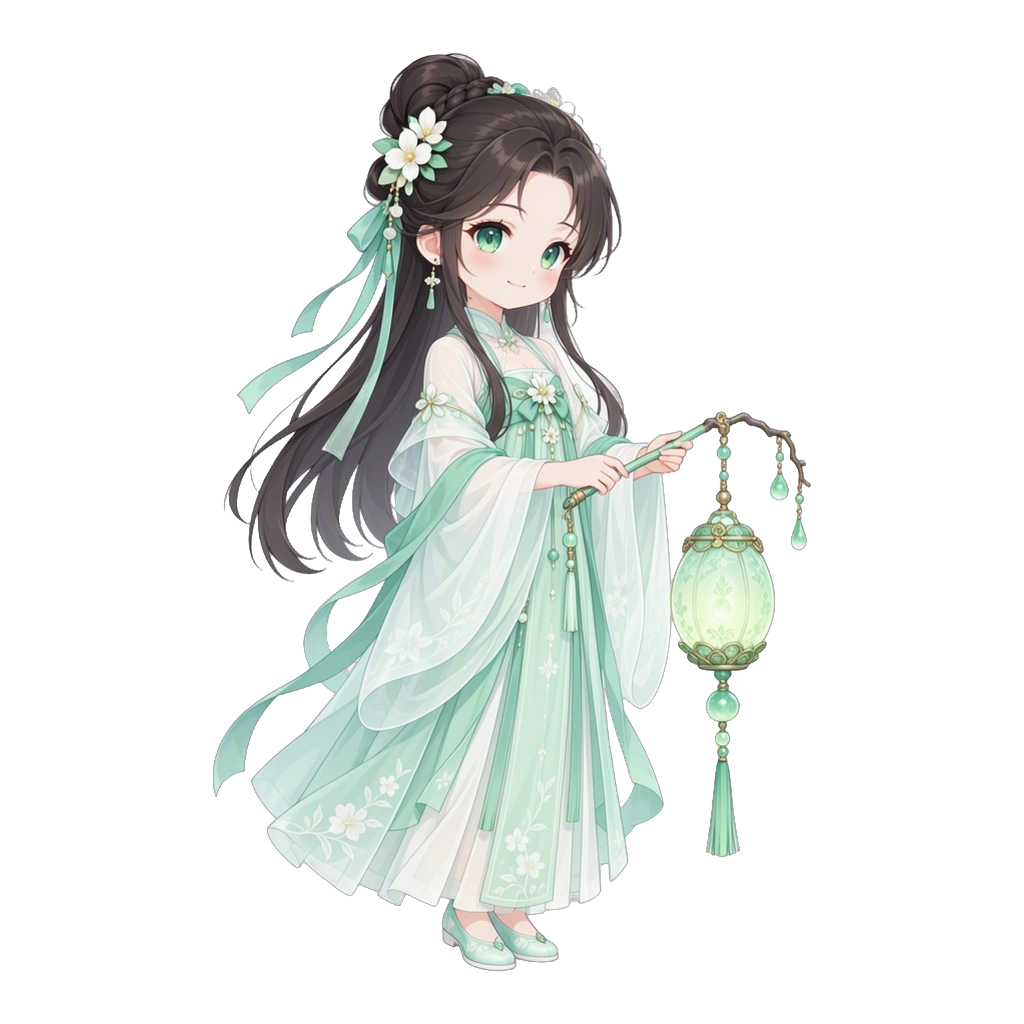
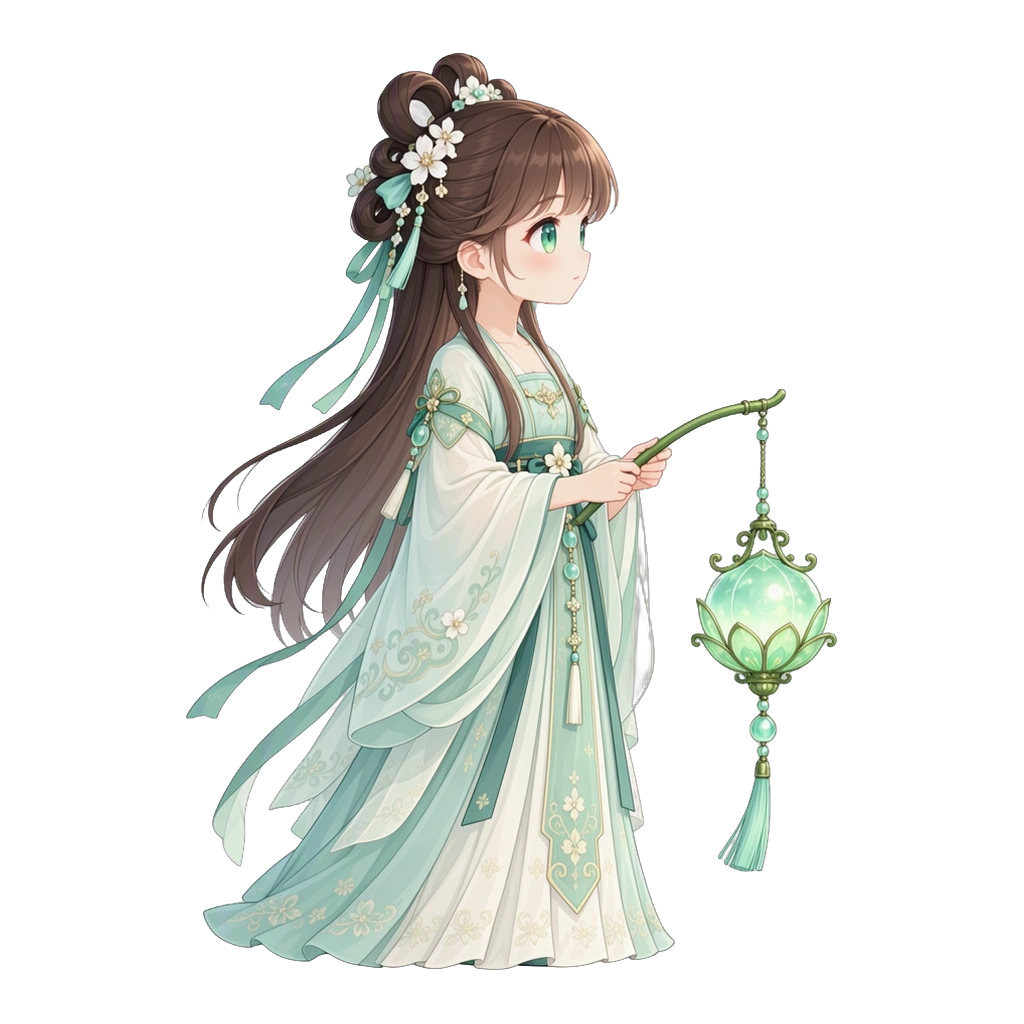
fix: 调整提灯小师妹脸部为45度侧颜视线并收拢为唯一方案

Changed region(s): [[0.1875, 0.0312, 0.8125, 0.9688]]

diff --git a/frontend/src/game/avatarStore.ts b/frontend/src/game/avatarStore.ts
@@ -46,11 +46,7 @@ export const REGISTERED_AVATAR_MAP: Record<string, { src: string; format: Avatar
   'katana-jk': { src: '/avatars/avatar-katana-jk.webp', format: 'webp' },
   'mecha-petite': { src: '/avatars/avatar-mecha-petite.webp', format: 'webp' },
   'hoodie-jk': { src: '/avatars/avatar-hoodie-jk.webp', format: 'webp' },
-  'avatar-sister-lotus': { src: '/avatars/avatar-sister-lotus.webp', format: 'webp' },
-  'avatar-sister-palace': { src: '/avatars/avatar-sister-palace.webp', format: 'webp' },
   'avatar-sister-lantern': { src: '/avatars/avatar-sister-lantern.webp', format: 'webp' },
-  'sister-lotus': { src: '/avatars/avatar-sister-lotus.webp', format: 'webp' },
-  'sister-palace': { src: '/avatars/avatar-sister-palace.webp', format: 'webp' },
   'sister-lantern': { src: '/avatars/avatar-sister-lantern.webp', format: 'webp' },
   default: { src: '/avatars/player.webp', format: 'webp' },
   female: { src: '/avatars/player.webp', format: 'webp' },
@@ -139,8 +135,6 @@ export type PlayerAvatarId =
   | 'wood-female'
   | 'star-male'
   | 'star-female'
-  | 'sister-lotus'
-  | 'sister-palace'
   | 'sister-lantern'
 
 /**
@@ -164,9 +158,7 @@ export function normalizePlayerAvatarId(id?: string | null): PlayerAvatarId {
   if (clean === 'wood-female' || clean === 'avatar-wood-female') return 'wood-female'
   if (clean === 'star-male' || clean === 'avatar-star-male') return 'star-male'
   if (clean === 'star-female' || clean === 'avatar-star-female') return 'star-female'
-  if (clean === 'sister-lotus' || clean === 'avatar-sister-lotus') return 'sister-lotus'
-  if (clean === 'sister-palace' || clean === 'avatar-sister-palace') return 'sister-palace'
-  if (clean === 'sister-lantern' || clean === 'avatar-sister-lantern') return 'sister-lantern'
+  if (clean === 'sister-lantern' || clean === 'avatar-sister-lantern' || clean === 'sister-lotus' || clean === 'sister-palace') return 'sister-lantern'
   return 'default'
 }
 
@@ -192,8 +184,6 @@ export interface AvatarOption {
     | 'app.avatar.woodFemaleName'
     | 'app.avatar.starMaleName'
     | 'app.avatar.starFemaleName'
-    | 'app.avatar.sisterLotusName'
-    | 'app.avatar.sisterPalaceName'
     | 'app.avatar.sisterLanternName'
   /** 立绘资源地址 */
   src: string
@@ -280,16 +270,6 @@ export const AVATAR_OPTIONS: readonly AvatarOption[] = [
     id: 'hoodie-jk',
     nameKey: 'app.avatar.hoodieJkName',
     src: '/avatars/avatar-hoodie-jk.webp',
-  },
-  {
-    id: 'sister-lotus',
-    nameKey: 'app.avatar.sisterLotusName',
-    src: '/avatars/avatar-sister-lotus.webp',
-  },
-  {
-    id: 'sister-palace',
-    nameKey: 'app.avatar.sisterPalaceName',
-    src: '/avatars/avatar-sister-palace.webp',
   },
   {
     id: 'sister-lantern',

diff --git a/frontend/src/i18n/domains/app.zh.ts b/frontend/src/i18n/domains/app.zh.ts
@@ -513,8 +513,6 @@ export const appZh = {
       katanaJkName: '断水',
       mechaPetiteName: '玄工',
       hoodieJkName: '听雷',
-      sisterLotusName: '青莲',
-      sisterPalaceName: '玲珑',
       sisterLanternName: '青荧',
     },
     // 设置页面

diff --git a/docs/tasks.md b/docs/tasks.md
@@ -24,7 +24,7 @@
 ### 正在进行与规划中任务
 | 任务编号 | 任务名称 | 分类 | 提出时间 | 状态 | 详情文档 |
 | :--- | :--- | :--- | :--- | :--- | :--- |
-| TASK-20261106-08 | 绿色系提灯小师妹二次元45度角角色形象生成与落盘：告别极简折面简笔风格，转向正统可爱2D二次元修仙少女风格；保持标准45度侧视（3/4身立绘），提青玉灵灯、着浅青碧绿汉服道裙；基于MOSS-Image管线生成与多轨落盘（art/母模1024px与frontend/轻量化128px WebP）并登记形象库 | 视觉资产 / 角色立绘 / MOSS-Image / AI生图 | 2026-11-06 22:40:00 | ✅ 已完成（2026-11-06 23:00:00） | [TASK-20261106-08-绿色系提灯小师妹二次元角色形象生成.md](tasks/TASK-20261106-08-绿色系提灯小师妹二次元角色形象生成.md) |
+| TASK-20261106-08 | 绿色系提灯小师妹二次元45度角角色形象生成与落盘：告别极简折面简笔风格，转向正统可爱2D二次元修仙少女风格；严格保持45度侧视（身体与脸部朝向右侧方自然一致、不直视镜头），手提青玉莲华灵灯、着浅青碧绿汉服道裙；基于MOSS-Image管线完成高精度母模（1024px）与生产轻量化（128px WebP）唯一落盘与形象系统注册 | 视觉资产 / 角色立绘 / MOSS-Image / AI生图 | 2026-11-06 22:40:00 | ✅ 已完成（2026-11-06 23:15:00） | [TASK-20261106-08-绿色系提灯小师妹二次元角色形象生成.md](tasks/TASK-20261106-08-绿色系提灯小师妹二次元角色形象生成.md) |
 | TASK-20261106-07 | 移除坊市交易层硬性阻断并转为非阻塞审计加分：确立所有反多开小号机制仅在注册登录层面进行行为阻止，游戏内流程（邀请/同设备交易、大幅偏离参考价、连续定向交易）解除撮合跳过与执行熔断，改为审计记录与风险加分，绝不干扰游戏正常流程 | 坊市经济 / 交易规则 / 风控优化 | 2026-11-06 21:15:00 | ✅ 已完成（2026-11-06 21:55:00） | [TASK-20261106-07-移除坊市邀请关系撮合限制.md](tasks/TASK-20261106-07-移除坊市邀请关系撮合限制.md) |
 | TASK-20261106-06 | 沉淀前端整体设计与实体渲染防退化规约文件：编写 frontend/AGENTS.md 前端专属设计与开发规约，明确组件分层、公共组件真源、实体渲染强标识契约、类型防呆、角标语义隔离与关键渲染路径静态代码防回归门禁；同步强化根目录 AGENTS.md 前端规则与测试章节 | 架构规范 / 前端设计 / 研发规则 | 2026-11-06 12:50:00 | ✅ 已完成（2026-11-06 13:00:00） | [TASK-20261106-06-沉淀前端整体设计与实体渲染防退化规约文件.md](tasks/TASK-20261106-06-沉淀前端整体设计与实体渲染防退化规约文件.md) |
 | TASK-20261106-05 | 坊市标的网格增加「参考价格」显示模式：支持在持有、在售、求购、参考价四态间切换展示，全服最近成交滑动均价聚合与金色货币角标样式落地（严防瓦片 itemId 遗漏） | 前端交互 / 坊市经济 / UI体验 | 2026-11-06 12:30:00 | ✅ 已完成（2026-11-06 12:45:00） | [TASK-20261106-05-坊市标的网格增加参考价格显示模式.md](tasks/TASK-20261106-05-坊市标的网格增加参考价格显示模式.md) |

diff --git a/docs/tasks/TASK-20261106-08-绿色系提灯小师妹二次元角色形象生成.md b/docs/tasks/TASK-20261106-08-绿色系提灯小师妹二次元角色形象生成.md
@@ -57,3 +57,9 @@
   - 前端 `avatarStore.ts`、i18n 词条 `app.zh.ts` 与翻译模板 `template.csv` 完成注册与映射。
 - **2026-11-06 22:55:00**：完成前端单测全量（191 项全绿）、i18n 门禁校验与生产编译，触发全量验证。
 - **2026-11-06 23:00:00**：前后端流水线门禁全部通过（0 警告、0 错误，191 项前端单测通过，12 项私有测试通过），完成资产与代码归档并执行 Git 提交。
+- **2026-11-06 23:10:00**：接收用户反馈（脸部朝向避免直视镜头、收拢只保留唯一最终方案）：
+  - 提示词强化真实 45 度侧颜：`three-quarter side profile facing right, looking forward into the distance, strictly looking away from camera`，并在负向提示词中强力压制 `looking at camera, eye contact, frontal face`；
+  - ComfyUI 重新生成并挑选出侧颜视线自然、双手提青竹莲花灯的唯一最优方案；
+  - 收拢清理冗余的 `sister-lotus` 与 `sister-palace` 资产与映射，只保留唯一权威的 `avatar-sister-lantern`（青荧）；
+  - 落盘覆盖母模（1024px WebP，149.3 KB）与生产端（128px WebP，5.0 KB）；
+  - 前端 191 项单测与构建再次全绿通过。
